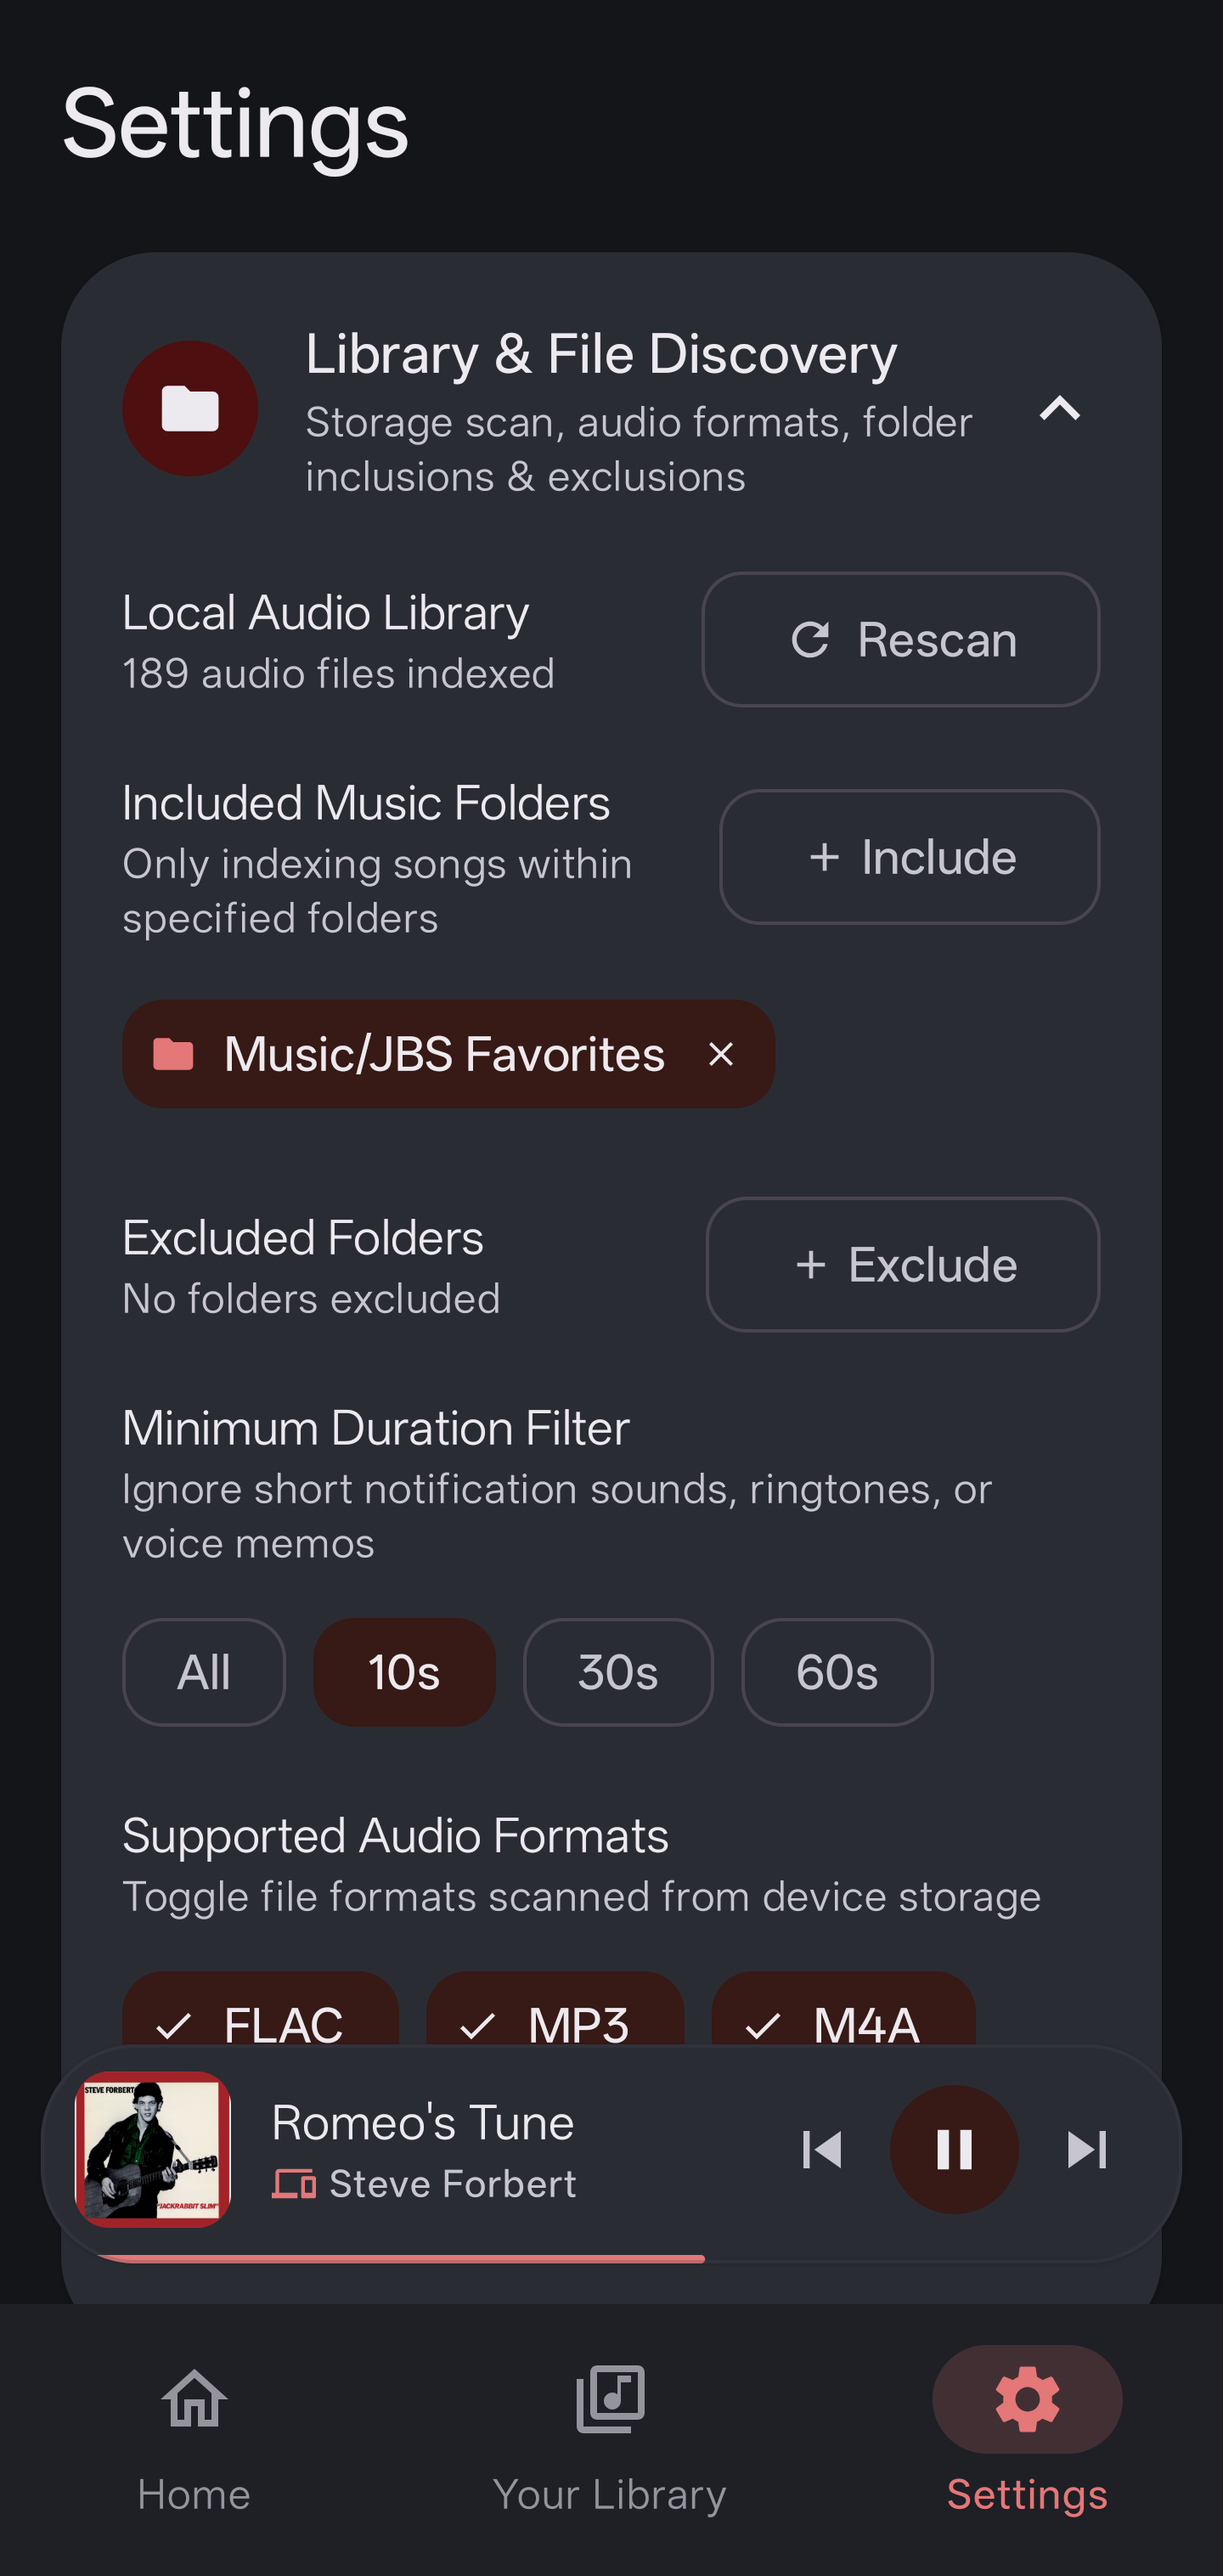
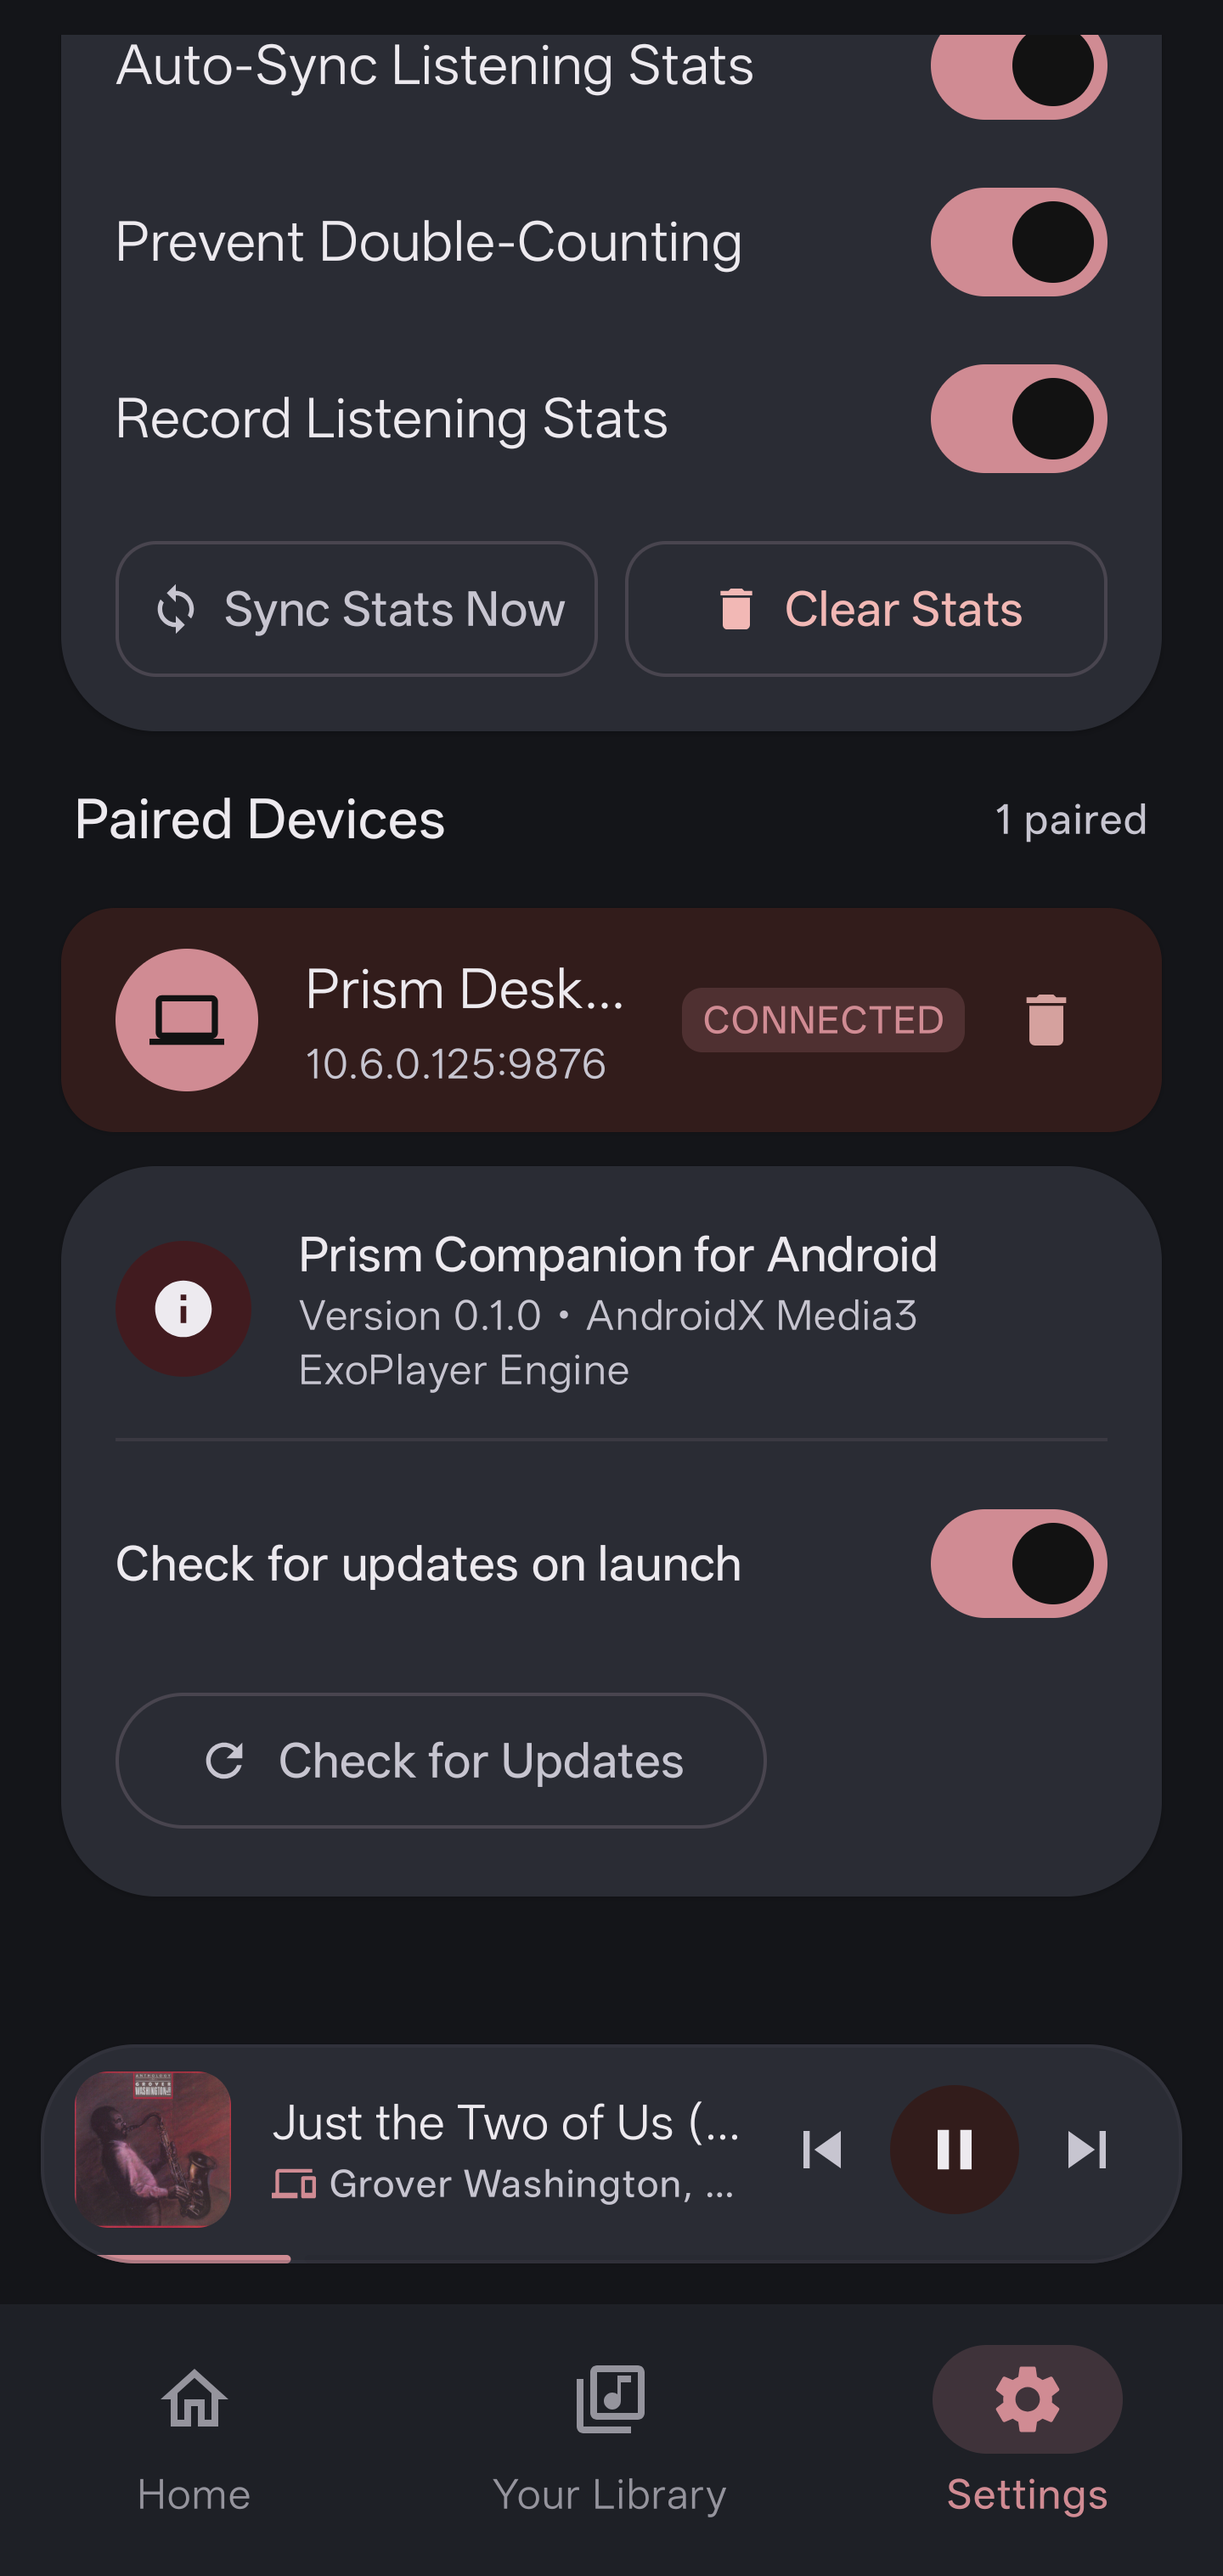
docs: update settings screen screenshot and README showcase caption

diff --git a/README.md b/README.md
@@ -58,10 +58,10 @@ Key capabilities:
 | <img src="docs/screenshots/01_home_screen.png" width="240" alt="Home Dashboard" /> | <img src="docs/screenshots/02_library_screen.png" width="240" alt="Music Library" /> | <img src="docs/screenshots/03_now_playing.png" width="240" alt="Now Playing Screen" /> |
 | *Quick actions, listening stats cards, and floating mini player.* | *Indexed tracks, albums, artists, fast-scroller, and favorite toggles.* | *Color-extracted artwork background, audio badges, and wavy seekbar.* |
 
-| Synchronized Lyrics | Listening Analytics | Library and Storage Settings |
+| Synchronized Lyrics | Listening Analytics | Settings & Preferences |
 | :---: | :---: | :---: |
-| <img src="docs/screenshots/04_lyrics_screen.png" width="240" alt="Synchronized Lyrics" /> | <img src="docs/screenshots/05_listening_stats.png" width="240" alt="Listening Analytics" /> | <img src="docs/screenshots/06_library_settings.png" width="240" alt="Library Settings" /> |
-| *Line-by-line highlight, font size scaling, translation, and romanization.* | *Total playback time, plays logged, top artist, and leaderboards.* | *Folder inclusion/exclusion rules, duration thresholds, and format filters.* |
+| <img src="docs/screenshots/04_lyrics_screen.png" width="240" alt="Synchronized Lyrics" /> | <img src="docs/screenshots/05_listening_stats.png" width="240" alt="Listening Analytics" /> | <img src="docs/screenshots/06_library_settings.png" width="240" alt="Settings & Preferences" /> |
+| *Line-by-line highlight, font size scaling, translation, and romanization.* | *Total playback time, plays logged, top artist, and leaderboards.* | *Storage rules, audio engine options, companion sync, and update checker.* |
 
 | Play Queue Sheet | Sleep Timer Modal |
 | :---: | :---: |
